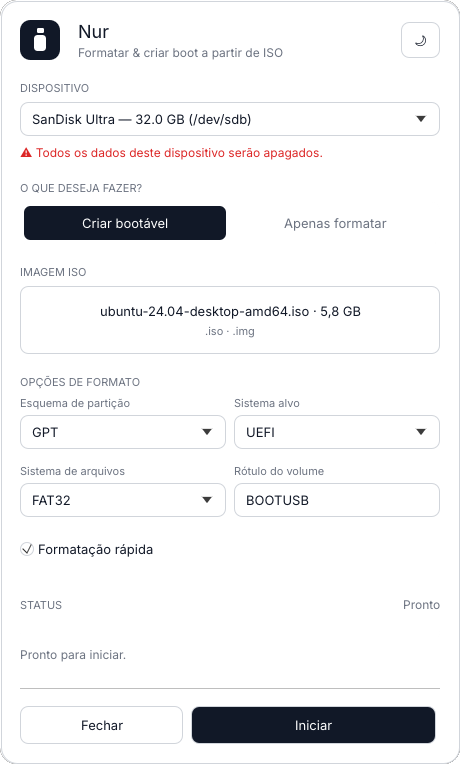
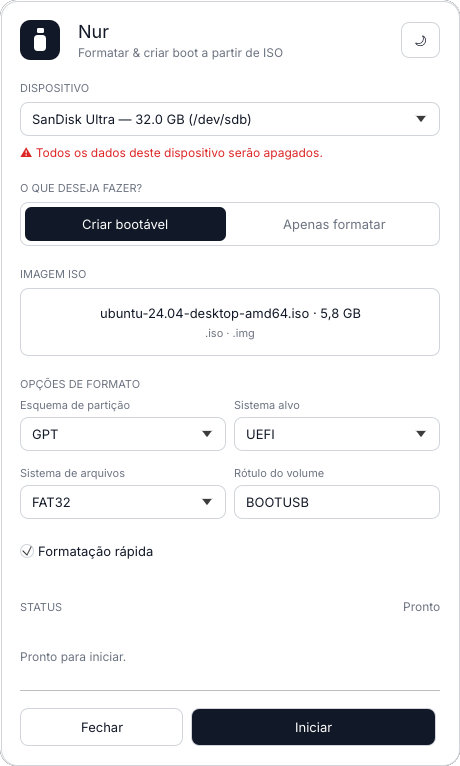
fix(ui): bordas dos controles no tema claro (container do seletor de modo)

diff --git a/crates/ui/src/app/draw.rs b/crates/ui/src/app/draw.rs
@@ -145,6 +145,7 @@ impl NurApp {
         FieldLabel::show(ui, palette, "O QUE DESEJA FAZER?");
         egui::Frame::NONE
             .fill(palette.control())
+            .stroke(egui::Stroke::new(1.0, palette.border()))
             .corner_radius(egui::CornerRadius::same(8))
             .inner_margin(egui::Margin::same(4))
             .show(ui, |ui| {

diff --git a/docs/fase2-feedback.md b/docs/fase2-feedback.md
@@ -14,5 +14,6 @@ Itens reportados durante a implementação da UI, para não atrapalhar o fluxo a
 | 8 | **Refatorar**: criar pasta de **componentes reutilizáveis** (button, input, select, etc.) | ✅ feito (`crates/ui/src/components/`: `FieldLabel`, `LabeledSelect`, `LabeledInput`, `PrimaryButton`, `SecondaryButton`, `DangerButton`) |
 | 9 | Janela deve **auto-ajustar a altura** conforme as seções expandem/encolhem | ✅ feito (mede a altura do conteúdo e envia `ViewportCommand::InnerSize`; boot=764px, format=654px) |
 | 10 | **F12 não tirava print** | ✅ feito (faltava `request_repaint` após pedir o screenshot — sem ele o frame que recebe o evento não rodava; agora há um estado `pending`. Print salvo em caminho absoluto, com mensagem "captura salva em …") |
+| 11 | No tema **branco**, algumas bordas de elementos não apareciam | ✅ feito (o container do seletor de modo era branco sobre card branco sem borda; adicionada `stroke` de borda) |
 
 > Validação visual de cada item é feita por screenshot headless (xvfb) — ver `docs/screenshots/`.